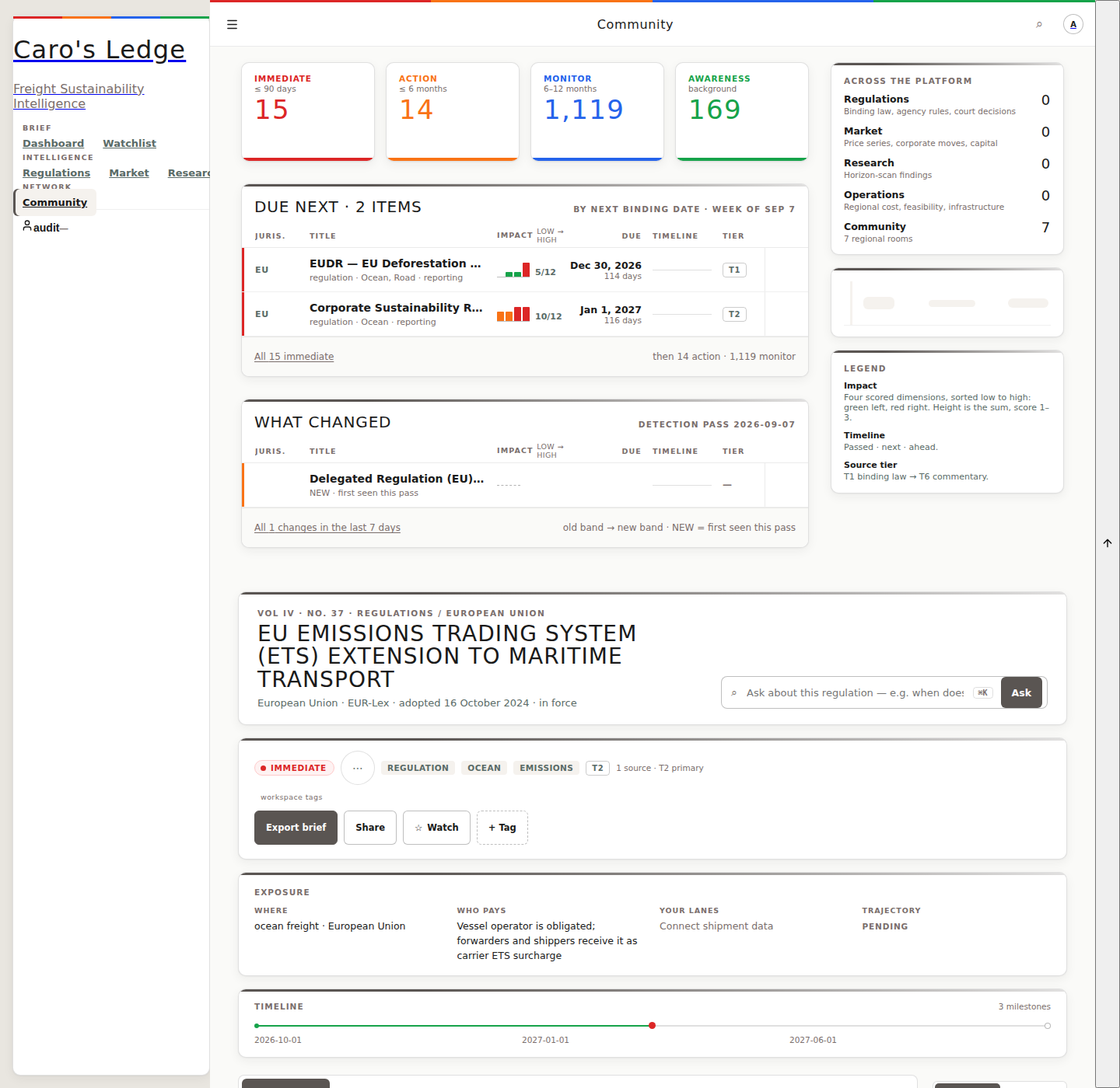
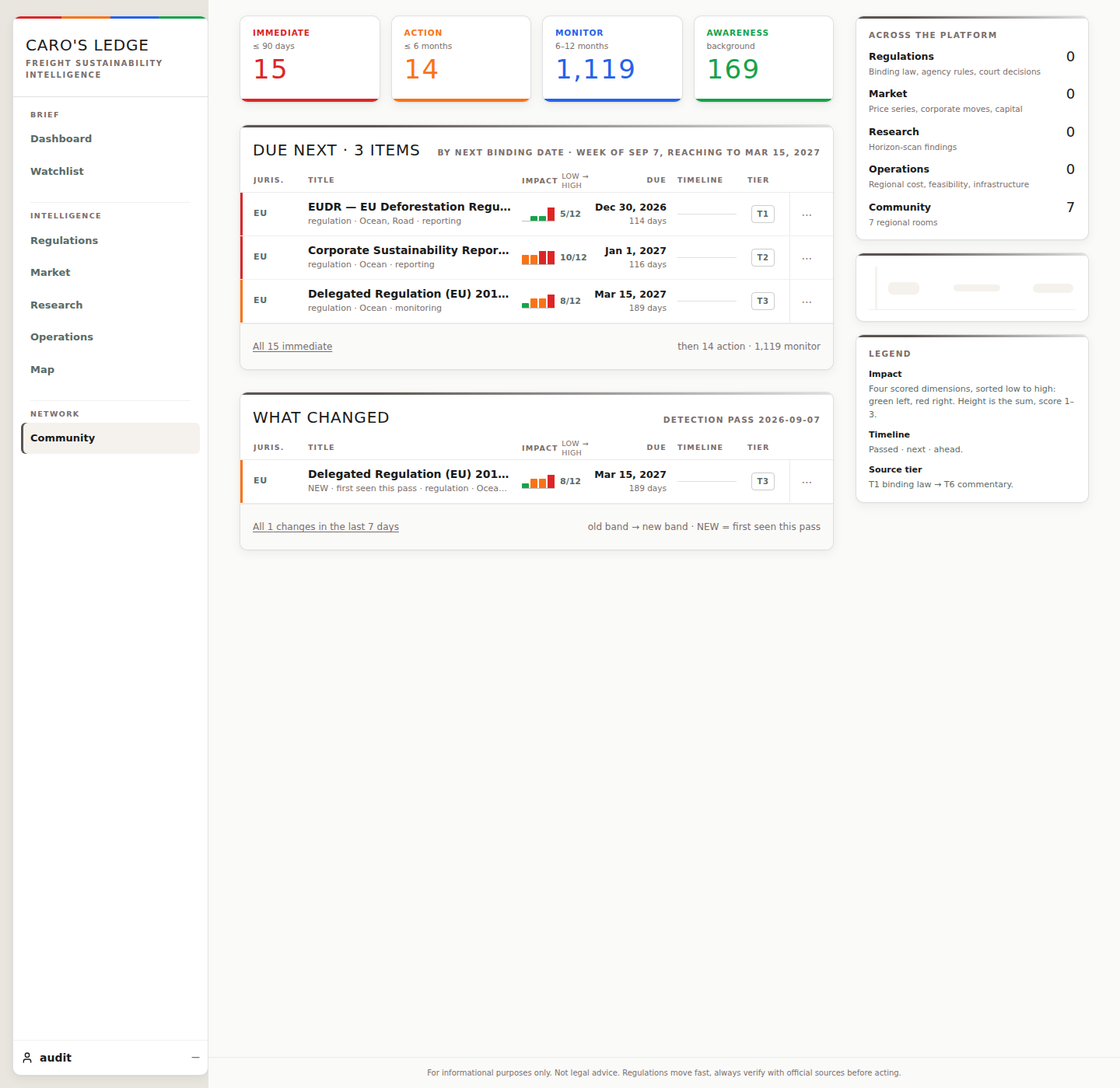
docs(fold62): the fold addendum, the regenerated audit at 2343/2343, and artboard 01 shot from its own mount
The session-log addendum for train 62 (postscript 18): the seven-lane order, the
two dedups (one due-next read where there were two; one card component where
there were two), every conflict class, the fold's own seven defects with their
class, the layout-guard baseline movement stated key by key, every gate line
with its numbers, and the six /market shared-part items each closed with its
measurement.

Also here:

- The design audit regenerated after the compose-01 spec row was updated from 2
  rows to 3, which is the count the folded corpus renders now that briefdata's
  by-id backfill and duenext's RPC feed the same pool: 71 specs, 2343 checks,
  2343 MATCH.
- Artboard 01's side-by-side recaptured from lane layoutguard's own
  compose-01-dashboard mount. capture-compose-dashboard.mjs still shoots
  page-frame-1440 with raw globals.css, so the composite carried an unstyled nav
  card and the mobile top bar at 1440 (train 59's compiled-CSS class, on the one
  page nobody had re-shot since).
- One correction in place: the cache key this fold hand-typed was not the hash
  rule [021] computes from the interface, and the rule caught it.

Claude-Session: https://claude.ai/code/session_011PrexRRmd9zJ3cBeMDJw94

diff --git a/docs/ops/session-log.md b/docs/ops/session-log.md
@@ -14909,4 +14909,251 @@ guard PASS: 11 fixtures, 12 viewports, 445 checks, 97 SM smoke, 216 UX smoke. `n
 (984 before this lane's 12). `run-test-suite.sh` 5,972 tests, 5,967 pass, 0 fail, exit 0.
 `npx next build --webpack` exit 0.
 
+## Addendum 86, postscript 18: train 62, the seven-lane fold, one due-next read where there were two, one card where there were two (2026-09-08, coordinator, lane FOLD-62)
+
+Train 61 landed as `24bef1dd`. Seven lanes were dispatched against it, and this is their fold: 24
+cherry-picks on `train/wave62-2026-09-08`, plus the fold's own reconciliation.
+
+**Why cherry-pick and not merge.** The usual reason, unchanged since postscript 14: master carries
+the squash, so its TREE equals `train/wave61-2026-09-08`'s while its ancestry does not, and a merge
+would argue about ancestry for every file. `git cherry-pick -x` applies by content and leaves each
+origin commit traceable in the landed trailer.
+
+**Order applied.** The two lanes that CREATE shared parts first, because everything downstream
+renders through them: layoutguard (1) then cardrule (4). Then listrow (5), railfacets (4),
+adminlayout (1), briefdata (6) and duenext (3). briefdata deliberately before duenext, so the
+surviving due-next read lands last and the removal is visible in the diff rather than in a comment.
+
+**THE DEDUP, which is why this fold needed judgement.** Lanes briefdata and duenext were dispatched
+an hour apart on the same production defect and each built a due-next read.
+
+- REMOVED: briefdata's `fetchDueNextCandidateIds` and its call site in `fetchDashboardData` (a
+  bounded date-ordered scan of `item_timelines` and `intelligence_items`, merged in date order in
+  TypeScript, then re-read by id through `fetchBriefResourcesByIds`), plus its private helper
+  `utcToday`, whose only caller it was. Three round trips, and a second definition of "binding
+  date" in TypeScript.
+- SURVIVOR: duenext's migration 315 `get_workspace_due_next(p_org_id, p_limit)`, one bounded
+  date-ordered RPC computing the binding date in SQL the way `dueInfo` computes it in TypeScript,
+  workspace-scoped through the same `_workspace_active_items` seam as every other workspace read,
+  and ALREADY APPLIED to production (verified by the coordinator; not re-applied here, the file is
+  in the tree for the inventory).
+- KEPT, every line, because none of it is duplicated: the by-id backfill of change rows
+  (`fetchBriefResourcesByIds`, `splitBriefIdsByShape`, `mergeBriefOverrides`, `mergeBriefCorpus`,
+  `DashboardData.briefResources`), the `compliance_deadline` mapper line, the `briefCardState`
+  model and its failure/empty split, `dueNextWindowLabel`, the watchlist cache guard
+  (`readPersonalWatchRows` / `readTeamWatchRows` / `fetchWatchlist` rejecting instead of resolving
+  `[]`), and the membership destructuring fix.
+- The mapper line was itself a DUPLICATE: both lanes added
+  `complianceDeadline: row.compliance_deadline || undefined` to `mapWorkspaceItemRows`, at
+  different anchors, and `tsc` caught it as TS1117 (an object literal cannot have two properties of
+  one name). One copy survives, carrying both lanes' live measurements.
+- `src/app/page.tsx` now builds ONE corpus from all three reads (the LIMIT-50 priority slice, the
+  by-id change backfill, the due-next RPC) through briefdata's own `mergeBriefCorpus`, and hands it
+  to the same three selection calls unchanged. A row present in more than one read renders once;
+  when migration 315 is absent `data.dueNext` is empty and the pool degrades to briefdata's own
+  behaviour. `DASHBOARD_DATA_CACHE_KEY` was rotated ONCE for the union of both lanes' shape changes
+  rather than taking either lane's key. CORRECTION, in place per rule 13's corollary: the hand-typed
+  value this fold first wrote (`app-data-7b3d90e4`) was not the one rule [021] computes from the
+  `DashboardData` interface on this tree, and the rule caught it over the commit range; the landed
+  key is `app-data-e1ae7713`, the interface's own hash. The reasoning was right and the value was
+  invented, which is exactly what that rule exists to catch.
+- The removal is now guarded, not just done: `due-next-read.npmtest.mjs` gains "there is exactly ONE
+  due-next read in the server module", proven red-then-green (planting a call to the removed
+  function turns it red; restored, green).
+
+**THE SECOND DEDUP, the one the operator will see.** Lanes layoutguard and cardrule each created a
+shared card component on the same day, for the same defect: `ui/Card.tsx` and `ui/SectionCard.tsx`.
+SectionCard survives and Card.tsx is deleted. It is the superset (polymorphic tag, a padded layout
+that keeps the rule spanning the full card width, the `dataAudit` hook, caller data attributes) and
+it is the file fitness function F42 already names as the one legal home for a card shell. Card.tsx's
+four callers moved onto it, `noRule` became `suppressRuleForBandGrouping`, and `data-guard-card`
+moved with them so the layout guard's L6 and L10 still name a card that came from the shared shell.
+DashboardBrief mounts `SectionCard` DIRECTLY rather than through a one-line local wrapper, so no
+file in the product has a second name for a card. Four proofs followed the structure rather than the
+old shape (`SectionRule.npmtest`, `SectionRule.coverage.npmtest`, `ListSurfaceRailCards.npmtest`,
+`AdminIssuesRail.npmtest`), and each is stronger than what it replaced: a card that cannot be built
+without its rule cannot lose it.
+
+**Every other conflict, and how it was resolved.** The rule throughout: a conflict is a merge
+artifact, not a disagreement, unless two lanes built the same thing.
+
+- `DEVIATION-LOG.md`, `session-log.md`: chronological unions, both sides whole, never a choice.
+- `AUDIT-2026-09-07.md`, `results.json`, the `built/*.png` composites: never hand-merged; one side
+  taken as a placeholder at each pick and every one regenerated at the end.
+- `spec/compose-01-dashboard.json` (listrow vs cardrule vs briefdata vs duenext, four times): all
+  four lanes appended rows at the same tail anchor. Unioned BY NAME through a small structural
+  merge rather than by text, so a row one lane added cannot be lost to another lane's formatting;
+  the spec went 22 -> 31 checks and every row of every lane is present.
+- `spec/compose-02/04/08` and `spec/list-surface.json` (railfacets): the lane had rewritten these
+  files' whitespace, so git conflicted on the whole file while the SEMANTIC change was six rows and
+  four notes. Merged by name, same tool, with the 2-space escaped formatting the other specs use.
+- `StateNote.tsx`: both lanes fixed the action link's hit target from opposite ends. layoutguard's
+  L9 measured it at 90.4x24 and 157.6x24 against the operator's 28px floor; briefdata's law-2 run
+  found the same box at 375 and 1280 and gave it `inline-flex` with `minHeight: 24`. ONE box now,
+  taking the stricter of the two floors (`minHeight: 28`, `padding: 8px 0`, horizontal padding 0 so
+  the link stays flush with the strip's right edge as README 0.4 draws it), declared once for both
+  element types.
+- `DashboardBrief.tsx` (four lanes): cardrule's per-card `dataAudit` hooks, listrow's F2 overflow
+  control, briefdata's card-state model and window label, and layoutguard's PageFrame adoption all
+  survive. The one thing NOT kept is cardrule's local `Card` wrapper, for the reason above.
+- `data.ts` / `supabase-server.ts`: `briefResources` and `dueNext` are both fields on the payload
+  and both on the failure factory; only the due-next READ was deduplicated.
+- **No file was reported BINARY.** Checked first, as train 59 taught: zero NUL bytes under `src/`
+  and `.discipline/`, zero source files git treats as binary anywhere in this fold's diff.
+
+**The fold's own defects, and their class.** Every one was invisible to the lane that owned it and
+visible only with all seven in one tree.
+
+1. **A hand-typed card shell on /admin (product).** F42 failed on the source registry card: lane
+   adminlayout built it the same day lane cardrule made the card a component, so it typed the five
+   declarations itself, on `--surface`/`--color-border` rather than the card tokens, and shipped
+   with NO box-shadow, which is operator item A3 exactly. It renders `SectionCard` now. The Tier
+   definitions overlay in the same module takes a `fitness-allow: F42` marker with its reason, the
+   convention the two other undesigned overlays already carry. Fitness 36/36, 0 violations.
+2. **A card head that overflowed its card at 1024 (product).** [CONFIRMED, measured in chromium:
+   clientWidth 674, scrollWidth 740, +66px] The band between 768 and 1279 had no rule at all in
+   `SectionHeading`, and it is the band where the content column is NARROWEST on a desktop, because
+   below 1280 the rail stacks (674px against 778px at 1440). Lane briefdata's window label states
+   the span the SELECTED ROWS cover, which is longer than the fixed "week of <date>" it replaced,
+   and lane layoutguard brought the L3 rule that measures it. The aside wraps below 1280 now; the
+   Anton title keeps `nowrap` at every width.
+3. **A mobile rule that had never applied (product, found while fixing 2).** The same aside sets
+   `white-space: nowrap` as an INLINE style, which beats any stylesheet rule without `!important`.
+   MOBILE-60's own 390 wrap rule for this element therefore never applied, at any width, since the
+   day it landed. Measured before and after: the aside computed `nowrap` at 390 and at 1024, and
+   computes `normal` at both now.
+4. **L1's rule 4 was vacuous on every route that adopted the shared frame (harness).** The check
+   read `frameEl.children[0]` and asked whether its computed `width` was "not auto". `PageFrame`
+   renders a `<style>` element as its first child, so on every adopting route the check measured a
+   `display:none` element and passed; and getComputedStyle().width returns the USED width in px for
+   every rendered box, so the one route whose first child was a real box (/admin, whose style block
+   sits outside the frame) failed on a value every route has. It now skips non-rendered children and
+   full-span bands (`grid-column: 1 / -1`, the /admin masthead) and asserts what the rule says: the
+   content column's box EQUALS the frame's content track. Rule 15's own failure mode, in the guard
+   that shipped to enforce rule 15.
+5. **L6 read the wrapper, not the rule (harness).** In `SectionCard`'s padded layout the rule is
+   carried by an absolutely positioned wrapper at the card's top edge, so the collector found a 3px
+   box with a TRANSPARENT background and reported "top rule background rgba(0, 0, 0, 0)" against
+   cards whose rule is drawn correctly. It descends to the element that actually paints now. This
+   alone dissolved 62 findings across the four detail surfaces and /admin, every one a false
+   positive created by the two lanes meeting.
+6. **Two guards, one operator ruling (harness).** Lane railfacets put the desktop facet row at the
+   artboard's 24px (operator item C1) and carried a dated, component-scoped exemption for the
+   rendering guard's law-2 floor. The site-wide layout guard's L9 is a SECOND floor over the same
+   element (44 long, 28 short) and fired 100 times on it. Both guards read the SAME entry now, so
+   the exemption cannot expire in one and live in the other, and it still covers only that target,
+   only at or above 768px, only until wave 70. Proven by attack: at 390, for any other control, for
+   a name that merely begins the same way, and past the expiry wave, the finding returns.
+7. **Seven R7 cards the guard could not read (docs).** L10's designed escape is a dated deviation
+   entry, which `manifests.mjs` parses out of the DEVIATION-LOG's own five-column rows. The cards
+   are /settings' SAVED SEARCHES, DATA SUMMARY, UPLOAD OPERATIONAL DATA CSV, SUPERSESSION HISTORY
+   and ARCHIVE and /community's VERTICAL GROUPS and GLOBAL REGION, all R7 placements trains 60 and
+   61 recorded IN PROSE. They became blocking findings at this fold for a reason worth stating: lane
+   cardrule moved every card onto one shell, so cards the guard could not previously SEE as cards
+   now identify themselves. The rule did not change and the pages did not change; the guard's
+   eyesight did, which is what a shared part is supposed to produce.
+
+**The layout-guard baseline, and what moved in it.** The lane landed 783 findings under a dated
+baseline expiring at wave 65. Over the folded tree the guard measures 792, and the movement is
+stated rather than absorbed: 71 keys dropped (the 62 false L6 rule readings above, plus /admin's L1
+pair and four /admin L2/L9 findings that the frame and card fixes closed) and 83 appeared, every one
+of them a /settings or /profile L2 overlap the baseline ALREADY carried under a different element
+name, because the R7 regions those pairs involve are now real cards and the collector names the card
+rather than the link inside it. [HYPOTHESIS, and labelled: I could not confirm a user-visible
+collision for that class. The two boxes intersect in the layout, but the region renders cleanly in a
+full-height capture at 1024, and both boxes sit below the document height the mount produces.] It
+stays where lane layoutguard put it, with the owner the routing table already names
+(`SettingsPage.tsx`) and the same wave-65 due date. **Blocking findings: 0.**
+
+**Gates** (this container; the coordinator lands). Every figure re-run over the FINAL tree.
+
+- `tsc --noEmit` **clean**
+- fitness runner **36/36, 0 violations** (F42 included, red-then-green on the /admin card)
+- rendering guard **PASS**: 14 fixtures at 12 viewports, 549 checks; 9 SM smoke specs, 113 checks;
+  12 UX smoke specs, 232 checks; **layout-guard slot 36 route x width measurements, 0 findings**
+  (792 covered by the dated baseline, 4 law-2 desktop exemptions printed in full)
+- design audit **71 specs, 2343 checks, 2343 MATCH, 0 MISMATCH / 0 NOT BUILT / 0 NOT IN SPEC**
+- overflow sweep **1440: 51 page mounts, 0px horizontal page overflow, 0 clipped runs**
+- overflow sweep **390: 18 page mounts, 0px horizontal page overflow, 0 clipped runs** (34
+  component mounts reported pinned)
+- CI npmtest glob (`git ls-files '**/*.npmtest.mjs'`) **1045/1045 PASS**
+- `node --test` over the rendering, rendering/audit and rules globs **157/157 PASS**
+- `run-test-suite.sh` **5997 tests, 5992 pass, 0 fail, 5 skipped, exit 0**
+- closure-gate **PASS on all four checks**; `override-check` **exit 0, no drift**; consistency
+  tests **12/12**
+- `invariant-coverage.mjs` **PASS**, 122 invariants + 63 doctrines wired
+- `next build --webpack` **exit 0** with no `.env.local`
+- mount/spec bijection **52 mounts, 50 named by a design spec, 2 named by the layout guard's own
+  routes.mjs, 0 named by nothing, 0 readers naming a mount that does not exist**
+
+**One spec updated, not weakened.** compose-01's "Due next renders a NON-ZERO row count" expected 2
+and measures 3. Lane duenext wrote it against its own pool; lane briefdata's by-id backfill is part
+of the SAME corpus now, and its third future-dated fixture item reaches the card. The row keeps an
+exact count and still fails on any drop toward zero, and now also fails if either lane's read is
+silently lost.
+
+**The visual pass.** Every side-by-side was regenerated from the folded code and read beside its
+artboard. It found one harness defect of its own: `capture-compose-dashboard.mjs` still shoots the
+`page-frame-1440` mount, which renders DashboardBrief AND a regulation detail with raw globals.css,
+so artboard 01's composite carried an unstyled nav card and the MOBILE top bar at 1440 (train 59's
+own compiled-CSS class, on the one page nobody re-shot since). Artboard 01 is captured from lane
+layoutguard's `compose-01-dashboard` mount now, which is the real AppShell frame with the compiled
+stylesheet, and the composite shows the product.
+
+**The six /market shared-part items the operator listed, each with its measurement.**
+
+1. **The card top rule: CLOSED.** Every card on /market carries the 3px rule at its top edge, and
+   the audit asserts the EXACT gradient rather than a 3px presence:
+   `linear-gradient(90deg, rgb(90, 85, 82), rgb(90, 85, 82) 22%, rgba(90, 85, 82, 0.18))`,
+   height 3px, count 1, on Headline series, Carbon cost per FEU, Next data drops and Legend. The
+   CLASS CLOSURE forbid (a card element that renders no 3px rule) is absent on /market and on four
+   other pages.
+2. **The literal PENDING in the date column: CLOSED.** The DUE cell renders the real date and its
+   day count ("Sep 14, 2026 / 6 days"). The row's one reason word sits on the title cell's meta
+   line, 10.5px/600 #7A6E6C uppercase, count 1, which is the operator's own B3/B4 placement, and
+   D-M4's "no list row carries more than one absence token" is absent on /market.
+3. **The bordered circle overflow control: CLOSED.** The 44px hit target has border-width 0,
+   border-radius 0 and a transparent background; the glyph inside it is the artboard's bare 28px
+   box, #7A6E6C, radius 6px, text U+22EF. The forbid "the overflow control is never a bordered
+   circle again" is absent.
+4. **The bordered kind chip: CLOSED.** 9.5px/700, letter-spacing 0.06em, uppercase, radius 3px,
+   padding 2px/6px, fill #F5F2EE on #1A1A1A, and all FOUR border widths measured 0px.
+5. **The band-block header phrasing: CLOSED.** A2's measures are asserted on the shared
+   `BandSectionHeader` (label 11px/800/.08em uppercase in the band colour, 7px dot, 11px muted
+   window) and /market renders that shared part: "IMMEDIATE / <= 90 days ... showing 5 of 8".
+6. **The row height: CLOSED.** `min-height: 56px`, grid `3px 56px * 88px 84px 76px 40px 44px`,
+   column-gap 14px, row-gap 0, padding-left 0, on the shared row and on the dashboard's two tables.
+
+**What still differs from the artboard, per page, after this fold.** Only the deltas this fold
+changed are restated; everything else stands as postscript 17 left it.
+
+- **01 Dashboard**: the composite is the real frame now. Due next carries THREE rows with real
+  impact meters, dates, timelines and tier chips, and its aside names the widened window out loud
+  ("BY NEXT BINDING DATE - WEEK OF SEP 7, REACHING TO MAR 15, 2027"). What changed carries a FULL
+  row where it used to carry the Absence convention in four cells: the by-id backfill working, which
+  is lane briefdata's whole point. Still differs: the masthead is out of frame (this mount is the
+  brief alone), ACROSS THE PLATFORM reads 0 for four surfaces and the Watchlist rail card can shoot
+  before its Suspense promise resolves, both fixture.
+- **02 / 04 / 06 / 08 lists**: rail facet rows are the artboard's 24px at 1440 with the 44px touch
+  target intact at 390, and the six /market items above are closed on all four. Still differs as
+  postscript 17 recorded.
+- **13 Admin**: the frame is the shared one, the tier card strip is gone with its legend in the
+  registry card's header and its counts in the source table's facets, the registry card now carries
+  the rule and the shadow it shipped without, and the two state-note strips sit where the operator
+  put them. Still differs: READ-ONLY CONTROLS has Refresh but not Export queue (no queue-export
+  function exists anywhere); "Pipeline - last full extraction run PENDING" where the artboard reads
+  a time and a count, which is the fixture.
+- **11 Watchlist / 12 Community / 14 Account / 15 Settings / 10 Map / details**: unchanged by this
+  fold beyond the shared card and row, both of which they render through; recaptured and read.
+
+**UX compliance**: this fold touched `.tsx`/`.ts` under `fsi-app/src` beyond the lanes' own work in
+five places, every one a containment, a dedup or a count fix with no new interactive element:
+`ui/SectionCard.tsx` (the survivor, plus `data-guard-card`), `ui/StateNote.tsx` (ONE action target
+box at the stricter of two floors), `ui/SectionHeading.tsx` (the aside wraps below 1280; the title
+does not), `sources/SourceHealthDashboard.tsx` and `sources/SourceTierLegend.tsx` (the shared card,
+and one marked overlay), plus `dashboard/DashboardBrief.tsx`, `app/page.tsx`, `lib/data.ts` and
+`lib/supabase-server.ts` for the due-next dedup, which is data-path only. No new interactive element
+is introduced anywhere; every 44px minimum the lanes set is preserved and the StateNote action's
+target grew from 24px to 28px. The rendering guard passes at every viewport including 375.
+
 2026-09-08, lane ci62: rotated DASHBOARD_DATA_CACHE_KEY from `app-data-7b3d90e4` to `app-data-e1ae7713`, the hash rule 021 computes on this tree, because this train changed the DashboardData payload shape (briefdata rows, the due-next read, and the reconciled complianceDeadline field) and the unstable_cache key must rotate so no old-shape cross-deployment entry can reach the new code.

diff --git a/docs/design/handoff-2026-09-06/AUDIT-2026-09-07.md b/docs/design/handoff-2026-09-06/AUDIT-2026-09-07.md
@@ -7,7 +7,7 @@ sections: edit the spec file and rerun. The hand-written source-level pass that 
 document is preserved verbatim at the end.
 
 - Repo state: `working tree` (branch `working tree`)
-- Run at: 2026-09-08T20:12:18.677Z
+- Run at: 2026-09-08T20:46:05.155Z
 - Spec files run: 71 (absence, account-members, actionrow, admin-issues-rail, admin-stat-tiles, auth-frame, bandgradientrule, bandtile, chips, community-table, compose-01-dashboard, compose-02-regulations-list, compose-03-regulation-detail, compose-04-market-list, compose-05-market-detail, compose-06-research-list, compose-07-research-detail, compose-08-operations-list, compose-09-operations-profile, compose-10-map, compose-11-watchlist, compose-12-community, compose-13-admin-registry, compose-13-admin, compose-14-account, compose-15-settings, compose-16-auth, compose-16-signup, compose-17-onboarding, detailheader, detailsection, detailtagrow, detailtimeline, factblocks, factcard, filterchipgroup, highrelevance, impactmeter, inthisliststat, list-surface-virtualized, list-surface, listrow, map-register, market-research-rows, masthead, milestonetimeline, mobile-01-dashboard, mobile-02-regulations-list, mobile-03-regulation-detail, mobile-04-market-list, mobile-06-research-list, mobile-08-operations-list, mobile-10-map, mobile-11-watchlist, mobile-18-drawer, onboarding-stepper, operations-matrix, page-frame, railcards, section-card-lists, sectionindex, settings-notifications, settings-section-index, sidebar, skeleton, statblock, statenote, summarydepthswitch, tabrow, tagpopover, watchbutton)
 - Checks: 2343
 
@@ -24,8 +24,8 @@ MISMATCH row below is a measurement taken this run, not a source read.
 
 | Status | Meaning | Count |
 |---|---|---|
-| MATCH | measured value equals the design source value | 2342 |
-| MISMATCH | measured value differs from the design source value | 1 |
+| MATCH | measured value equals the design source value | 2343 |
+| MISMATCH | measured value differs from the design source value | 0 |
 | NOT BUILT | the spec's selector matched no element in the mounted tree | 0 |
 | NOT IN SPEC | a forbidden element is present | 0 |
 
@@ -419,7 +419,7 @@ exactly the spec files named above; nothing else in the product has been measure
 - Mount: `page-frame-1440` at 1440 px
 - Artboards: 01-dashboard
 - Design source: docs/design/handoff-2026-09-06/screens/01-dashboard.png (artboard image is the authority per SETUP); dc.html id="p1"; README screen 1
-- Result: 66 MATCH, 1 not matching
+- Result: 67 MATCH, 0 not matching
 
 > Region-composition check, not a value check (page-frame.json and the per-part specs already check exact colours/type/spacing). This spec checks that the artboard's regions exist, in the artboard's top-to-bottom order, inside `[data-audit="dashboard"]` — the real DashboardBrief mounted by page-frame-1440.
 > The masthead (VOL line, title, dek, command bar) is NOT inside this mount (page-frame-1440 wraps DashboardBrief only, no DashboardMasthead) — verified separately by source read of src/app/page.tsx + src/components/dashboard/DashboardMasthead.tsx and the live-server screenshot docs/design/handoff-2026-09-06/built/uxfix-5.1-4.1-4.2-5.2-2.1-2.2-dashboard.png. A follow-up mount that adds DashboardMasthead (stubbing useAuth/useWorkspaceStore/useWorkspaceBootstrap) would let this spec check the masthead region too.
@@ -491,7 +491,7 @@ exactly the spec files named above; nothing else in the product has been measure
 | F2 — the dashboard's rows end in the same bare 28px ⋯ glyph the list surfaces use | `text` | `⋯` | `⋯` | MATCH |
 | BRIEFDATA: the Due next card renders rows against the populated fixture, never zero | `count` | `3` | `3` | MATCH |
 | BRIEFDATA: the What changed card renders rows against the populated fixture, never zero | `count` | `1` | `1` | MATCH |
-| region 2b, Due next renders a NON-ZERO row count against the populated fixture (lane duenext, production defect 2026-09-08) | `count` | `2` | `3` | MISMATCH |
+| region 2b, Due next renders a NON-ZERO row count against the populated fixture (lane duenext, production defect 2026-09-08) | `count` | `3` | `3` | MATCH |
 | region 3b, What changed renders a NON-ZERO row count against the populated fixture (lane duenext) | `count` | `1` | `1` | MATCH |
 | no floating Ask AI button (ruling 2.2) | `(forbidden element)` | `absent` | `absent` | MATCH |
 | row impact meter never renders bare '0' for an unscored item (ruling: never 0) | `(forbidden element)` | `absent` | `absent` | MATCH |
